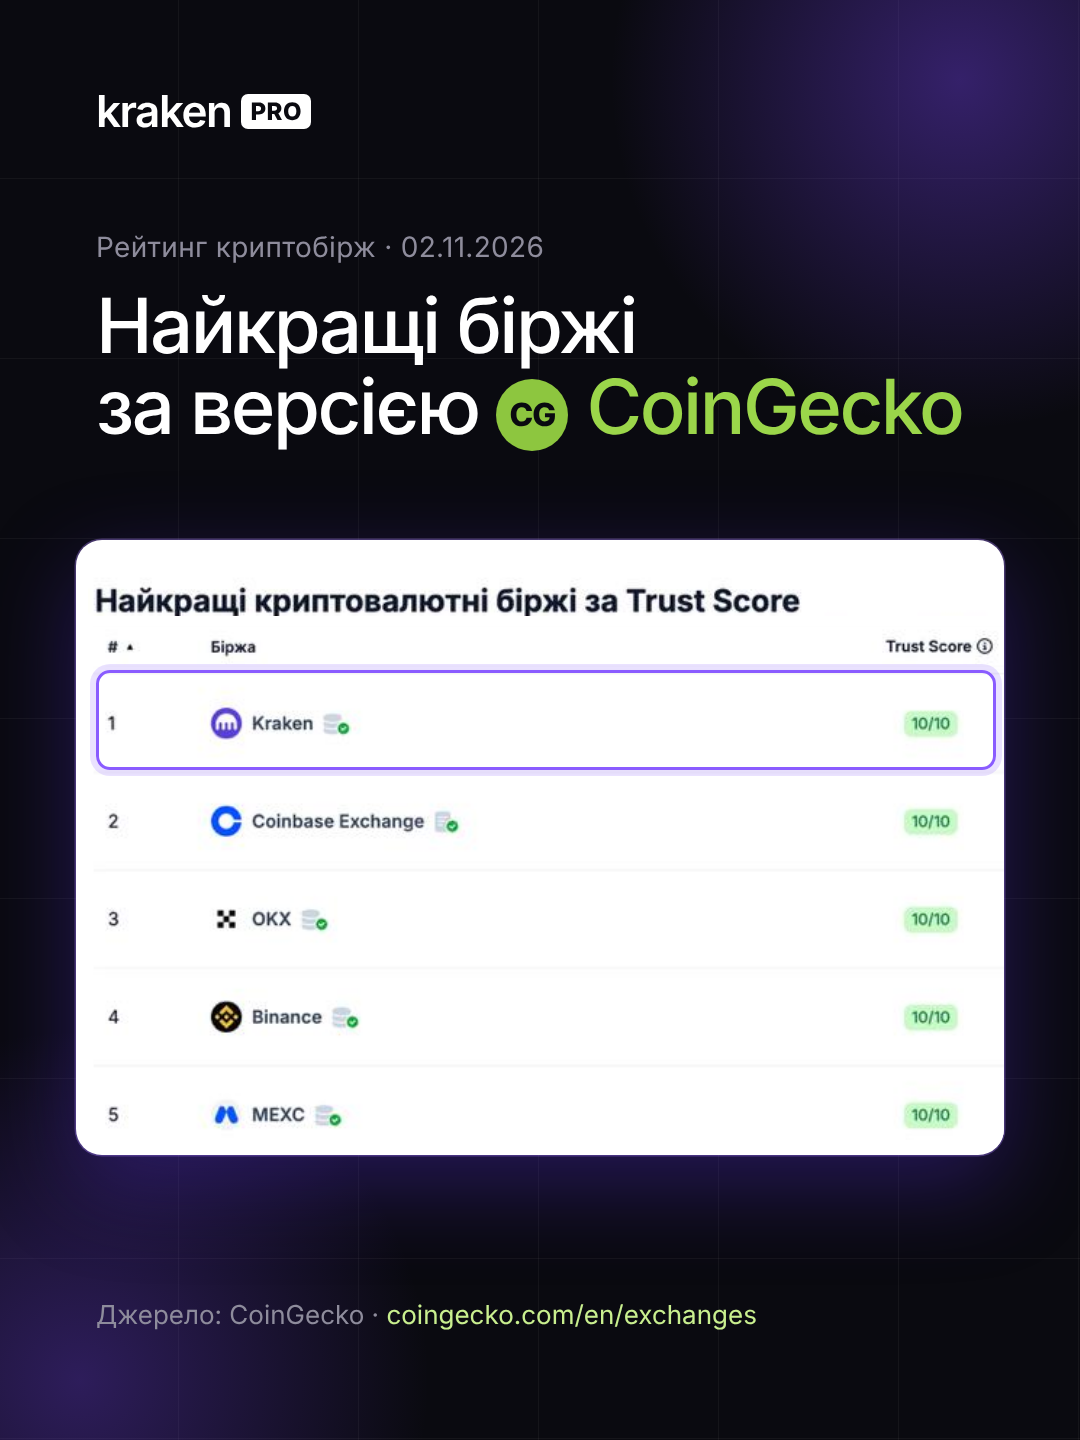
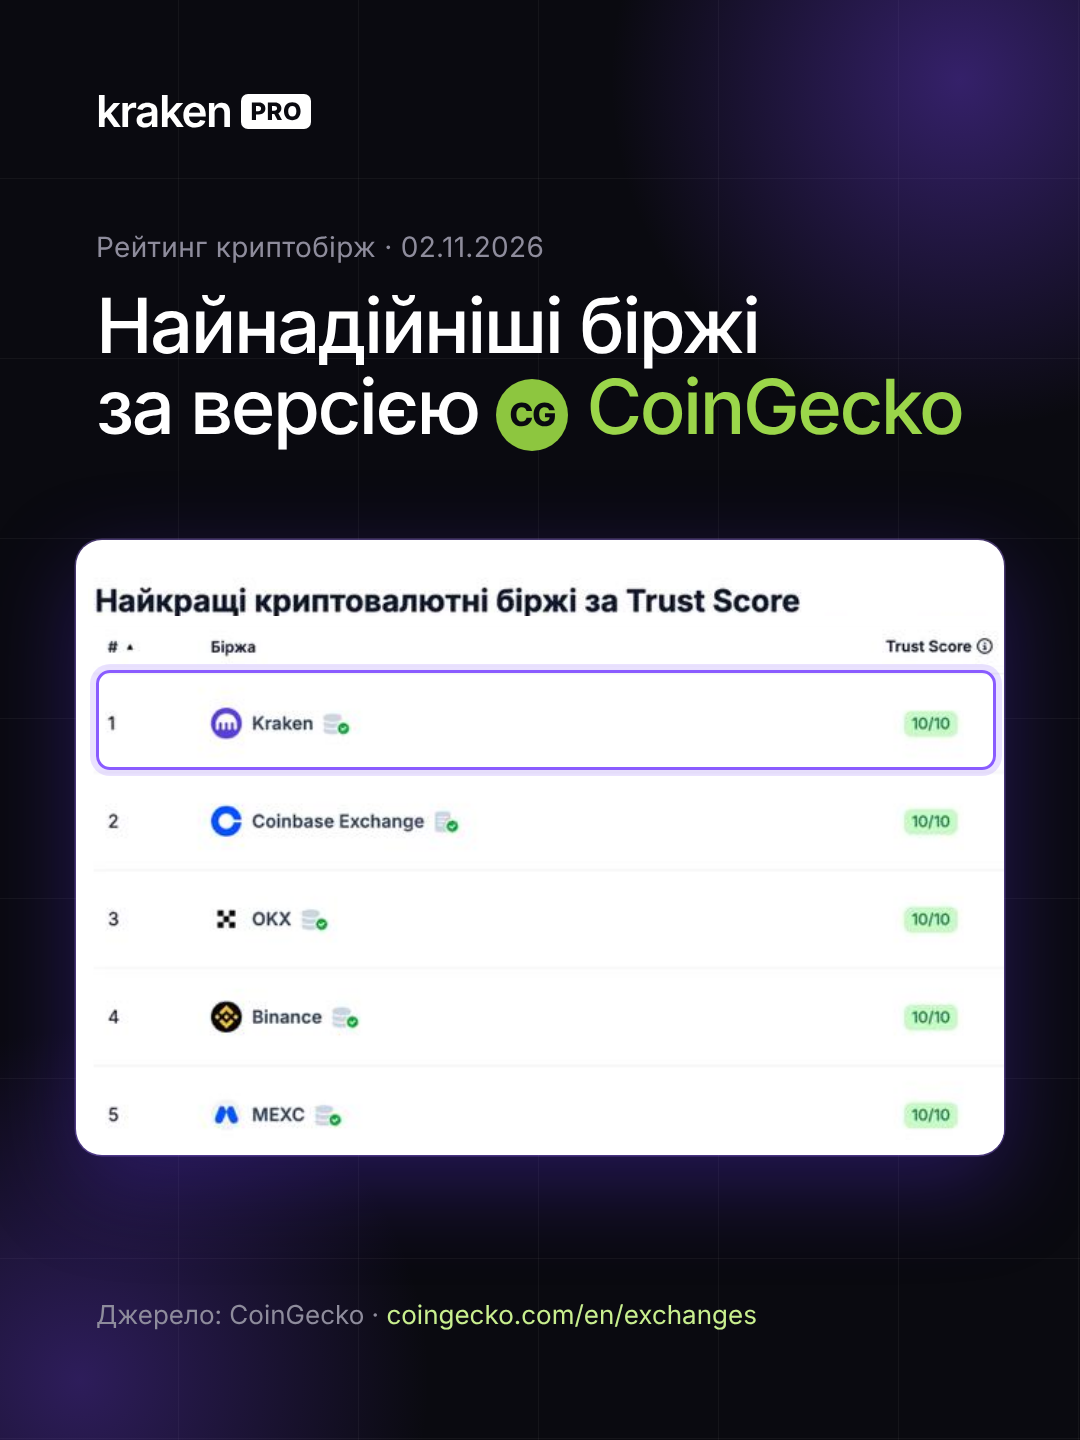
Change headline to «Найнадійніші біржі»
Claude-Session: https://claude.ai/code/session_01Li97ffKf2q18jZ4p57ZTsX

Changed region(s): [[0.2139, 0.1875, 0.7028, 0.25]]

diff --git a/threads-coingecko/slides.html b/threads-coingecko/slides.html
@@ -48,7 +48,7 @@ h1 span{color:#B18CFF}
 <div class="s" id="s1"><div class="glow1"></div><div class="glow2"></div>
  <div class="hdr"><div class="logo">kraken<span class="pro">PRO</span></div></div>
  <div class="eyebrow">Рейтинг криптобірж · 02.11.2026</div>
- <h1>Найкращі біржі<br>за версією <span class="cgw"><span class="dot big">CG</span>CoinGecko</span></h1>
+ <h1>Найнадійніші біржі<br>за версією <span class="cgw"><span class="dot big">CG</span>CoinGecko</span></h1>
  <div class="card">
   <!-- title strip: src x0-520, y0-42 -->
   <div class="crop" style="width:916px;height:50px"><img src="coingecko-source.jpg" style="width:1856px;left:-6px;top:0"></div>
